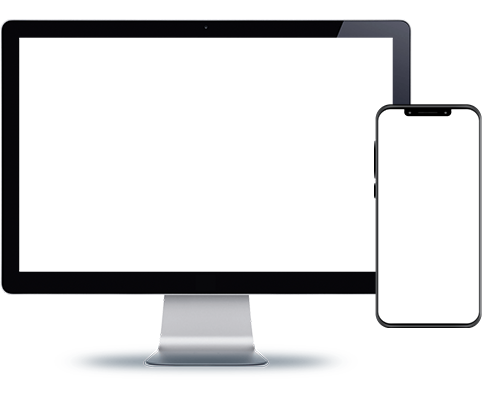
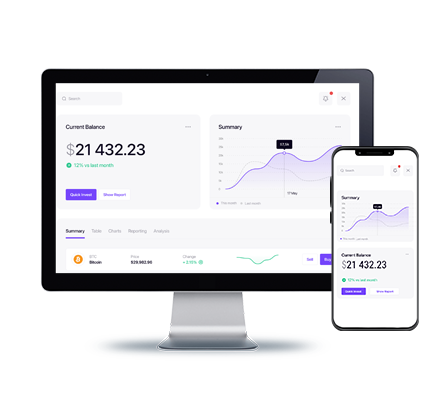
Hero page - desktop

diff --git a/components/Hero.tsx b/components/Hero.tsx
@@ -1,3 +1,4 @@
+import Image from "next/image";
 import React from "react";
 import styles from "../styles/Hero.module.css";
 import Navbar from "./Navbar";
@@ -6,6 +7,25 @@ const Hero = () => {
   return (
     <section className={styles.section}>
       <Navbar />
+      <div className={styles.container}>
+        <article className={styles.article}>
+          <h1>Grzegorz Banaszak Junior Web Developer</h1>
+          <h2>Javascript - Typescript - NodeJs - React</h2>
+          <p>
+            Building powerful and dynamic web applications to bring your ideas
+            to life.
+          </p>
+          <button className={styles.button}>View more</button>
+        </article>
+        <div>
+          <Image
+            width={633}
+            height={600}
+            alt="Hero section monitor and phone"
+            src="/monitor.png"
+          />
+        </div>
+      </div>
     </section>
   );
 };

diff --git a/styles/Hero.module.css b/styles/Hero.module.css
@@ -9,3 +9,44 @@
     rgba(18, 27, 49, 1) 100%
   );
 }
+
+.container {
+  display: flex;
+  gap: 4rem;
+  max-width: 1248px;
+  margin: 0 auto;
+  height: calc(100vh - 64px);
+  justify-content: space-between;
+  align-items: center;
+  color: white;
+}
+
+.article h1 {
+  font-size: 2.8rem;
+  margin-bottom: 1rem;
+  padding: 1.2rem 0;
+  border-bottom: 5px solid white;
+}
+
+.article h2 {
+  font-size: 1.8rem;
+  margin: 1rem 0 1rem 0;
+  font-weight: 500;
+}
+
+.article p {
+  font-size: 1.3rem;
+  margin-bottom: 2rem;
+}
+
+.button {
+  background-color: #4f50ae;
+  border: none;
+  padding: 1.2rem 1rem;
+  color: white;
+  font-size: 1.4rem;
+  font-weight: 700;
+  border-radius: 10px;
+  text-transform: uppercase;
+  cursor: pointer;
+}
